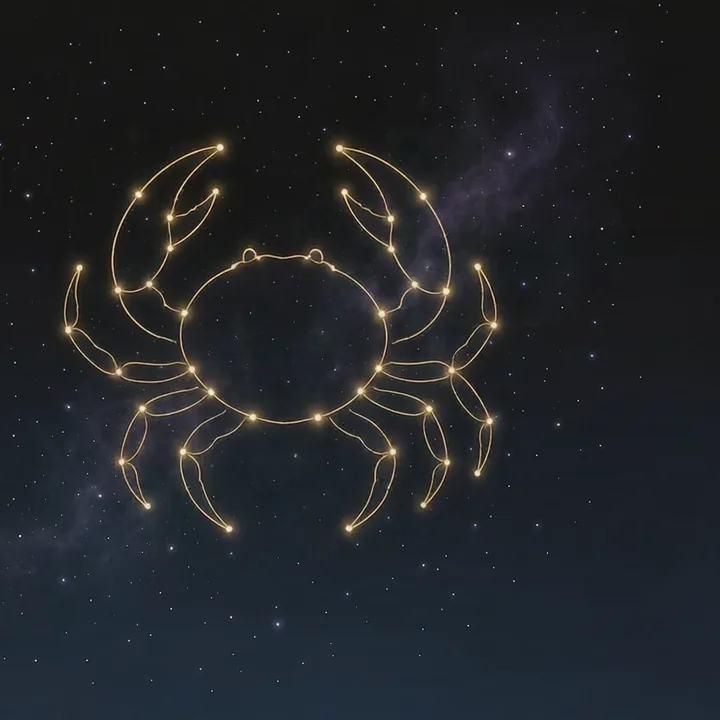
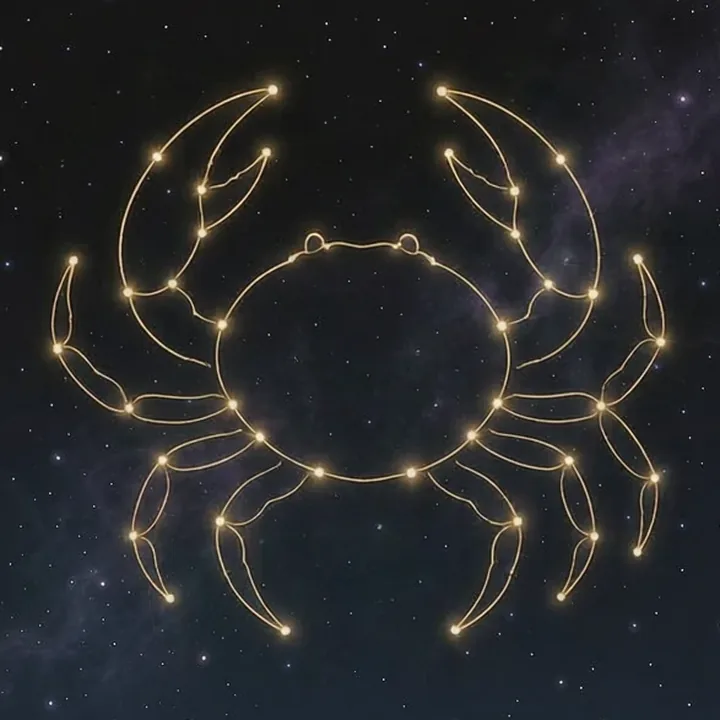
星座线稿按金色主体严格居中裁切；缓存戳升级c

Changed region(s): [[0.0611, 0.0917, 1.0, 0.9167], [0.5806, 0.0917, 0.7028, 0.1833], [0.1222, 0.7944, 0.1528, 0.825]]

diff --git a/js/modules/images.js b/js/modules/images.js
@@ -79,7 +79,7 @@ var MAP = {
 var PKG_BASE = { 'tarot/': 'assets/tarot/' }
 
 // 缓存刷新戳：整批调整图片后改这个值，强制全网 CDN / 浏览器缓存失效
-var ASSET_V = '?v=20261028b'
+var ASSET_V = '?v=20261028c'
 
 function resolve(key) {
   if (!key) return ''

diff --git a/scripts/reprocess_zodiac3.py b/scripts/reprocess_zodiac3.py
@@ -1,0 +1,55 @@
+# -*- coding: utf-8 -*-
+"""星座线稿三次精裁（跑完可删）：
+只认金色线条（R 明显大于 B 的暖色亮像素），连通域过滤星点，
+以金色主体 bbox 居中裁正方形，彻底避开右侧淡紫星云的干扰。
+仅处理 zd_art_* 13 张；galaxy / today_card 不动。
+"""
+import os
+import cv2
+import numpy as np
+from PIL import Image
+
+ROOT = os.path.normpath(os.path.join(os.path.dirname(os.path.abspath(__file__)), '..', 'assets', 'zodiac'))
+AVAIL = 0.92
+OUT = 720
+
+
+def gold_bbox(path):
+    img = cv2.imread(path, cv2.IMREAD_COLOR)          # BGR
+    B = img[:, :, 0].astype(np.int16)
+    G = img[:, :, 1].astype(np.int16)
+    R = img[:, :, 2].astype(np.int16)
+    mask = ((R - B) > 25) & (R > 110)
+    m8 = (mask.astype(np.uint8)) * 255
+    m8 = cv2.dilate(m8, np.ones((5, 5), np.uint8))     # 连接线条
+    n, lab, stats, cent = cv2.connectedComponentsWithStats(m8, 8)
+    boxes = [s for s in stats[1:] if s[4] > 300]
+    if not boxes:
+        return None
+    x0 = min(s[0] for s in boxes); y0 = min(s[1] for s in boxes)
+    x1 = max(s[0] + s[2] for s in boxes); y1 = max(s[1] + s[3] for s in boxes)
+    return (x0, y0, x1, y1)
+
+
+for fn in sorted(os.listdir(ROOT)):
+    if not fn.startswith('zd_art_') or not fn.endswith('.webp'):
+        continue
+    p = os.path.join(ROOT, fn)
+    im = Image.open(p).convert('RGB')
+    W, H = im.size
+    bb = gold_bbox(p)
+    if not bb:
+        print('  skip(无金色主体):', fn)
+        continue
+    x0, y0, x1, y1 = bb
+    mw, mh = int((x1 - x0) * 0.08), int((y1 - y0) * 0.08)
+    x0, y0 = max(0, x0 - mw), max(0, y0 - mh)
+    x1, y1 = min(W, x1 + mw), min(H, y1 + mh)
+    side = max(x1 - x0, y1 - y0)
+    avail_h = int(H * AVAIL)
+    side = min(side, avail_h, W)
+    cx, cy = (x0 + x1) / 2, (y0 + y1) / 2
+    left = int(min(max(0, cx - side / 2), W - side))
+    top = int(min(max(0, cy - side / 2), avail_h - side))
+    im.crop((left, top, left + side, top + side)).resize((OUT, OUT), Image.LANCZOS).save(p, 'WEBP', quality=82, method=6)
+    print('  %-34s bbox=(%d,%d,%d,%d) crop=(%d,%d,%d)' % (fn, x0, y0, x1, y1, left, top, side))
